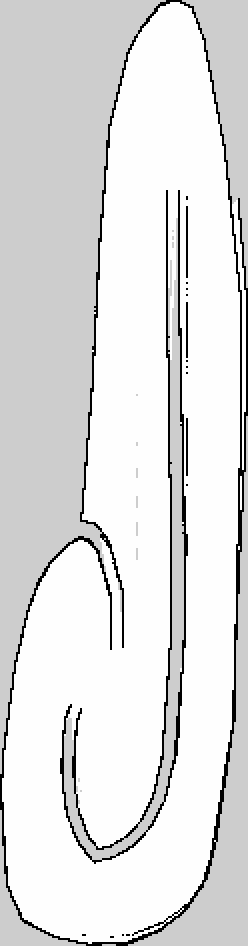
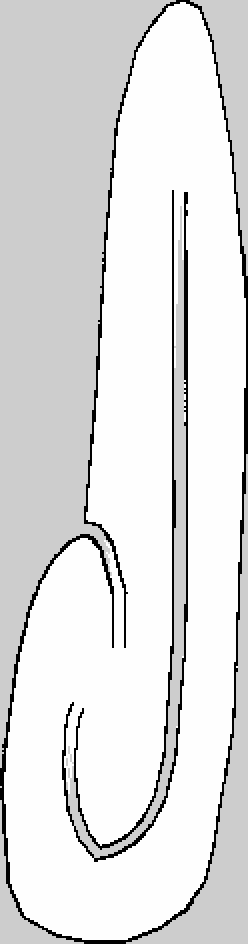
update map

diff --git a/src/map.rs b/src/map.rs
@@ -27,6 +27,9 @@ impl Skeleton {
         let mut skeleton = thin_image_edges(img);
         #[cfg(feature = "show_images")]
         view_image(&skeleton, "skeleton");
+        #[cfg(feature = "show_images")]
+        std::thread::sleep(std::time::Duration::from_secs(10));
+
         let mut ordered_skeleton = extract_main_loop(&mut skeleton, res, ox, oy);
         assert!(ordered_skeleton.len() >= 2);
         let dy = ordered_skeleton[1][1] - ordered_skeleton[0][1];
@@ -103,19 +106,17 @@ impl OccGrid {
         let img = image::open(dir.join(&m.image)).unwrap().into_luma8();
         let mut occupied_image = img.clone();
         for pixel in occupied_image.pixels_mut() {
-            pixel.0[0] = if pixel.0[0] < 250 { 255 } else { 0 };
+            pixel.0[0] = if pixel.0[0] < 128 { 255 } else { 0 };
         }
         let edt = euclidean_squared_distance_transform(&occupied_image);
         #[cfg(feature = "show_images")]
         view_image(&occupied_image, "occupied");
+        let edt_img = GrayImage::from_fn(img.width(), img.height(), |x, y| {
+            let val = edt.get_pixel(x, y).0[0].sqrt();
+            image::Luma([(val.min(255.0)) as u8])
+        });
         #[cfg(feature = "show_images")]
-        {
-            let edt_img = GrayImage::from_fn(img.width(), img.height(), |x, y| {
-                let val = edt.get_pixel(x, y).0[0].sqrt();
-                image::Luma([(val.min(255.0)) as u8])
-            });
-            view_image(&edt_img, "edt");
-        }
+        view_image(&edt_img, "edt");
 
         Self {
             inv_res: 1.0 / m.resolution,

diff --git a/scripts/autodrive_devkit/autodrive_roboracer/teleop_keyboard.py b/scripts/autodrive_devkit/autodrive_roboracer/teleop_keyboard.py
@@ -48,8 +48,8 @@ else:
 # Parameters
 DRIVE_LIMIT = 1.0
 STEER_LIMIT = 1.0
-DRIVE_STEP_SIZE = 0.05
-STEER_STEP_SIZE = 0.2
+DRIVE_STEP_SIZE = 0.01
+STEER_STEP_SIZE = 0.05
 
 # Information
 info = """

diff --git a/README.md b/README.md
@@ -52,6 +52,10 @@ colcon build
 source install/setup.bash
 ros2 launch wall_follow wall_follow.launch.py
 ```
+## Keyboard control
+```bash
+python3 scripts/autodrive_devkit/autodrive_roboracer/teleop_keyboard.py
+```
 ## Save map
 ```bash
 ros2 service call /slam_toolbox/save_map slam_toolbox/srv/SaveMap "{name: {data: '/workspaces/rustoracer/my_map'}}"
